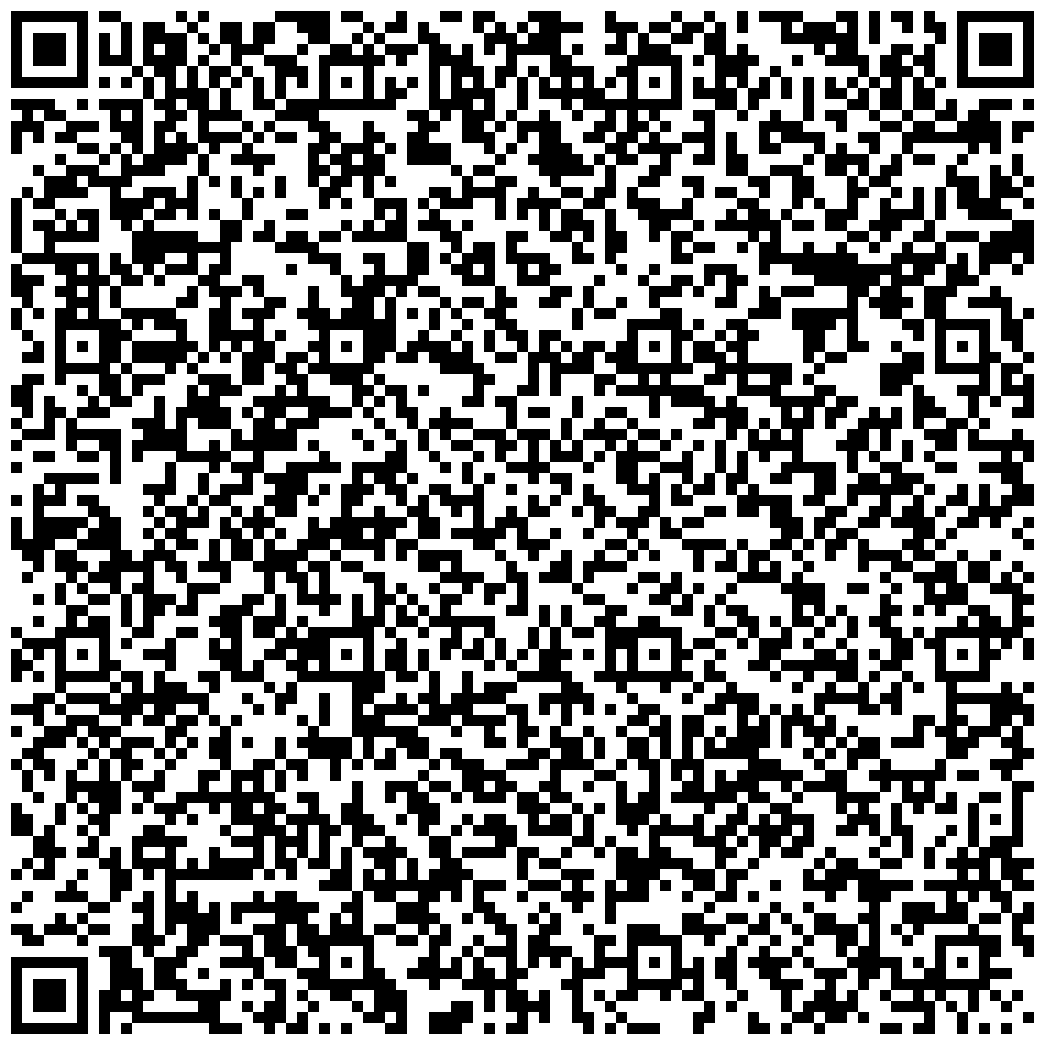
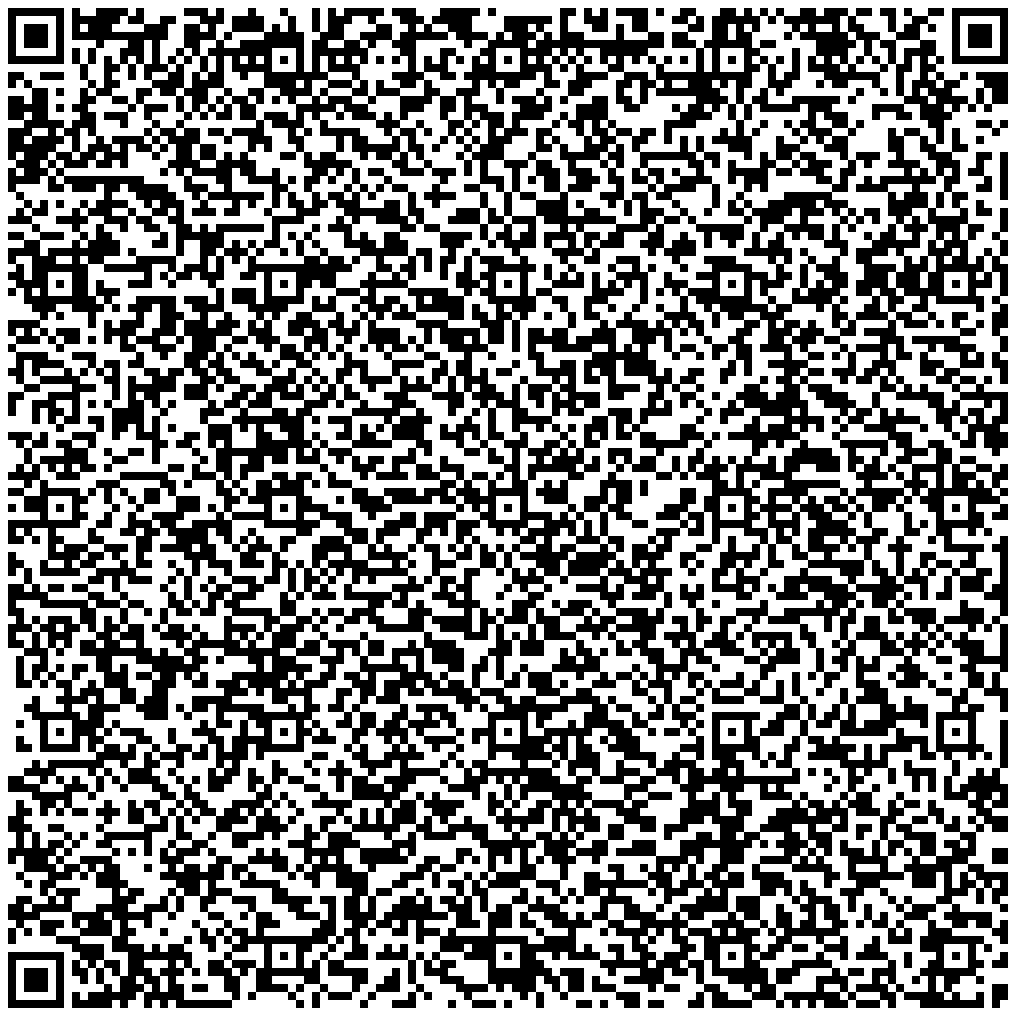
..

diff --git a/moiveinvoice.html b/moiveinvoice.html
@@ -46,7 +46,7 @@
             </tr>
             <tr>
                 <td>
-                    <p style="text-align: center">Invoice No: <b>602802</b></p>
+                    <p style="text-align: center">Invoice No: <b>966585</b></p>
                 </td>
             </tr>
 
@@ -56,14 +56,14 @@
                     <table width="400">
                         <tr>
                             <td>
-                                <p>Movie: <b>Kingdom of the Planet of the Apes (3D) (HINDI) (U/A)</b></p>
-                                <p>Show Date: <b>05/06/2024</b></p>
-                                <p>Seat No: <b>J8,J9,J10,J11,J12,J13,J14,J15</b></p>
-                                <p>Screen: <b>Screen 6 (3D)</b></p>
+                                <p>Movie: <b>The Strangers: Chapter 1 (A) (3D) (HINDI) (U/A)</b></p>
+                                <p>Show Date: <b>04/06/2024</b></p>
+                                <p>Seat No: <b>J8,J9 </b></p>
+                                <p>Screen: <b>Screen 3 (3D)</b></p>
                             </td>
                             <td>
                                 <p>&nbsp;</p>
-                                <p>Time: <b>21:10 (24 Hours Format)</b></p>
+                                <p>Time: <b>20:00 (24 Hours Format)</b></p>
                                 <p>&nbsp;</p>
                                 <p>Category: <b>RECLINER PLUS</b></p>
                             </td>
@@ -88,10 +88,10 @@
                         <tr>
                             <td valign="top">Ticket&nbsp;18.00(%):</td>
                             <td valign="top">8</td>
-                            <td valign="top">3200.00</td>
-                            <td valign="top">288.00</td>
-                            <td valign="top">288.00</td>
-                            <td valign="top">3776.00</td>
+                            <td valign="top">800.00</td>
+                            <td valign="top">72.00</td>
+                            <td valign="top">72.00</td>
+                            <td valign="top">944.00</td>
                         </tr>
                         <tr>
                             <td valign="top">Total&nbsp;&nbsp;&nbsp;&nbsp;&nbsp;&nbsp;&nbsp;&nbsp;&nbsp;&nbsp;:</td>
@@ -99,7 +99,7 @@
                             <td valign="top"></td>
                             <td valign="top"></td>
                             <td valign="top"></td>
-                            <td valign="top">3776.00</td>
+                            <td valign="top">944.00</td>
                         </tr>
                         <!--<tr>
             <td valign="top">Total&nbsp;:</td><td valign="top"></td><td valign="top"></td><td valign="top"></td><td valign="top"></td><td valign="top">JH_CTOTAL</td>
@@ -110,7 +110,7 @@
             </tr>
             <tr>
                 <td>
-                    <p>Trans No: <b>63524188</b></p>
+                    <p>Trans No: <b>6558555</b></p>
                 </td>
             </tr>
             <tr>
@@ -126,7 +126,7 @@
                         </tr>
                         <tr>
                             <td width="400" valign="top">
-                                <p style="margin: 0">CUSTOMER NAME: AGAM </p>
+                                <p style="margin: 0">CUSTOMER NAME: LAKHAN </p>
                             </td>
 
 
@@ -139,10 +139,10 @@
                         </tr>
                         <tr>
                             <td width="200" valign="top">
-                                <p style="margin: 0">POS USER:ANNU</p>
+                                <p style="margin: 0">POS USER:MANPREET</p>
                             </td>
                             <td width="200" valign="top">
-                                <p style="margin: 0">POS ID: 1553</p>
+                                <p style="margin: 0">POS ID: 1335</p>
                             </td>
 
                         </tr>
@@ -172,7 +172,7 @@
                         </tr>
                         <tr>
                             <td colspan="2">
-                                <p>Invoice Date: <b>05-06-2024 20:45:12</b></p>
+                                <p>Invoice Date: <b>04-06-2024 19:55:12</b></p>
                             </td>
                         </tr>
                         <tr>

diff --git a/index.html b/index.html
@@ -23,7 +23,7 @@
     <div class="container">
         <div class="card" style="width: 28rem;">
             <div class="upper   ps-5 py-3">
-   <h2>Kingdom of the Planet of the Apes  (3D) (HINDI) (U/A)</h2>
+   <h2>The Strangers: Chapter 1 (A)  (3D) (HINDI) (U/A)</h2>
    <p class="fw-bold">POS:PVR (3D) Elante Chandigarh</p>
             </div>
             <div class="card-body">
@@ -34,8 +34,8 @@
                 </div>
                 <div class="row">
 
-                    <p class="card-text fw-bold col-6">05/06/2024</p>
-                    <p class="card-text fw-bold col-6">21:10 (24 Hours Format)</p>
+                    <p class="card-text fw-bold col-6">04/06/2024</p>
+                    <p class="card-text fw-bold col-6">20:00 (24 Hours Format)</p>
                 </div>
 
 <hr>
@@ -45,7 +45,7 @@
                 </div>
                 <div class="row">
 
-                    <p class="card-text fw-bold col-12 " style="font-size: 14px;">Screen 6 (3D) - RECLINER PLUS-J8,J9,J10,J11,J12,J13,J14,J15</p>
+                    <p class="card-text fw-bold col-12 " style="font-size: 14px;">Screen 3 (3D) - RECLINER PLUS-J8,J9</p>
                 </div>
                <hr>
 
@@ -62,7 +62,7 @@
                 <div class="row ">
 
                     <p class="card-text fw-light  col-6">ORDER ID</p>
-                    <p class="card-text fw-bold text-end col-6">245512</p>
+                    <p class="card-text fw-bold text-end col-6">365241</p>
                 </div>
            
             </div>
